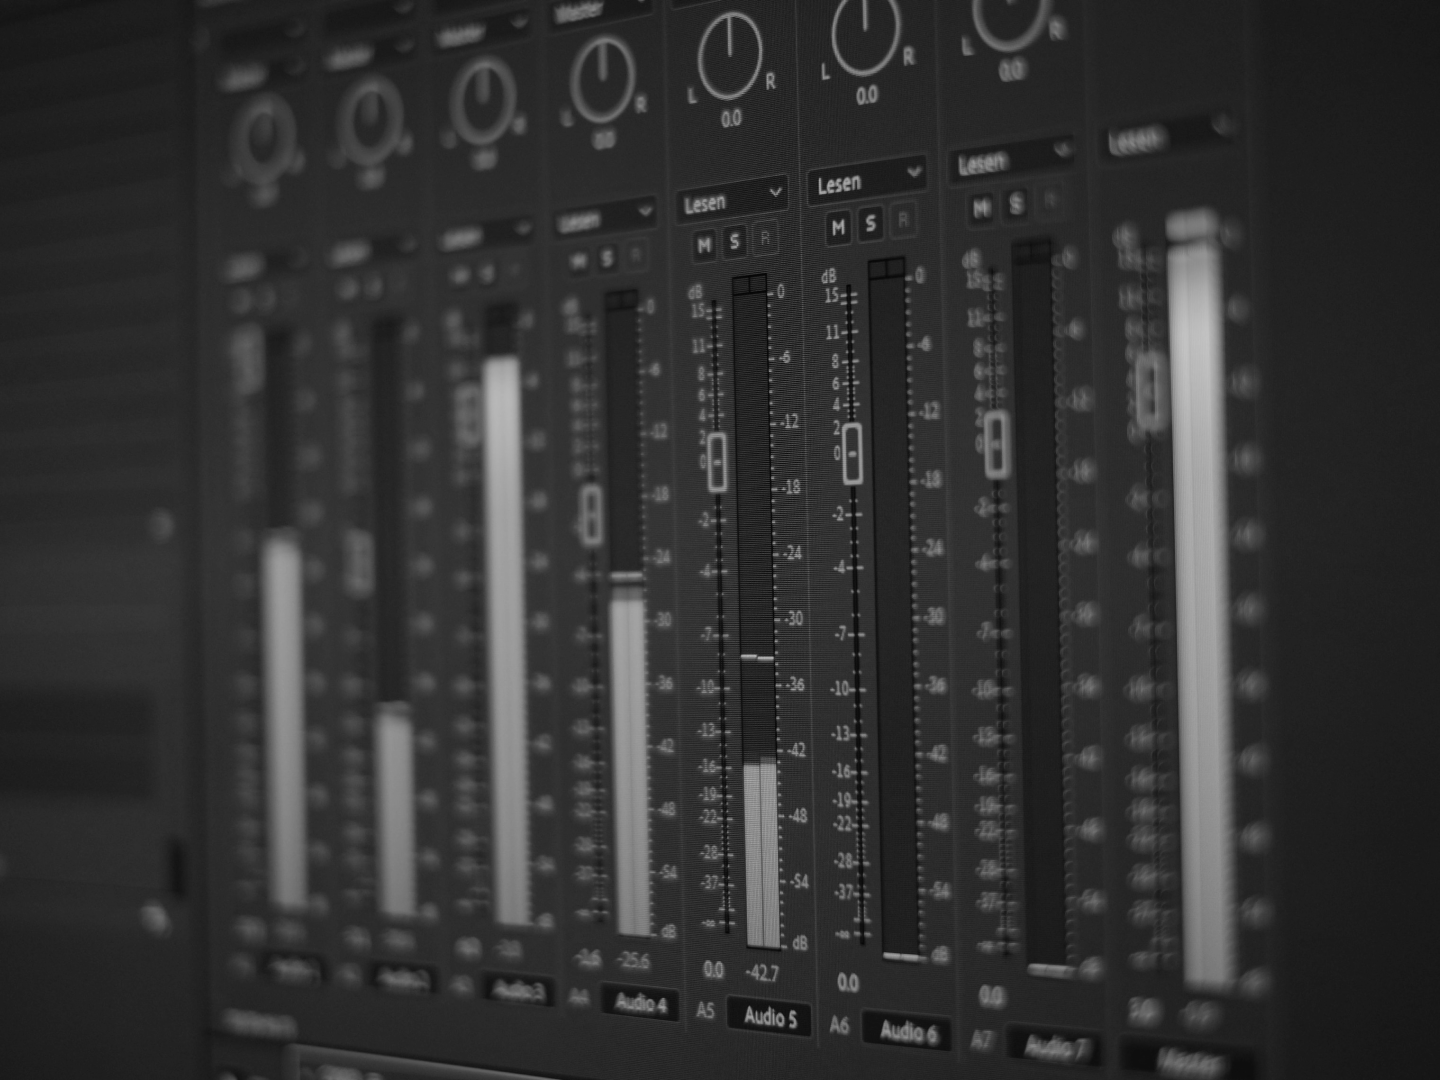
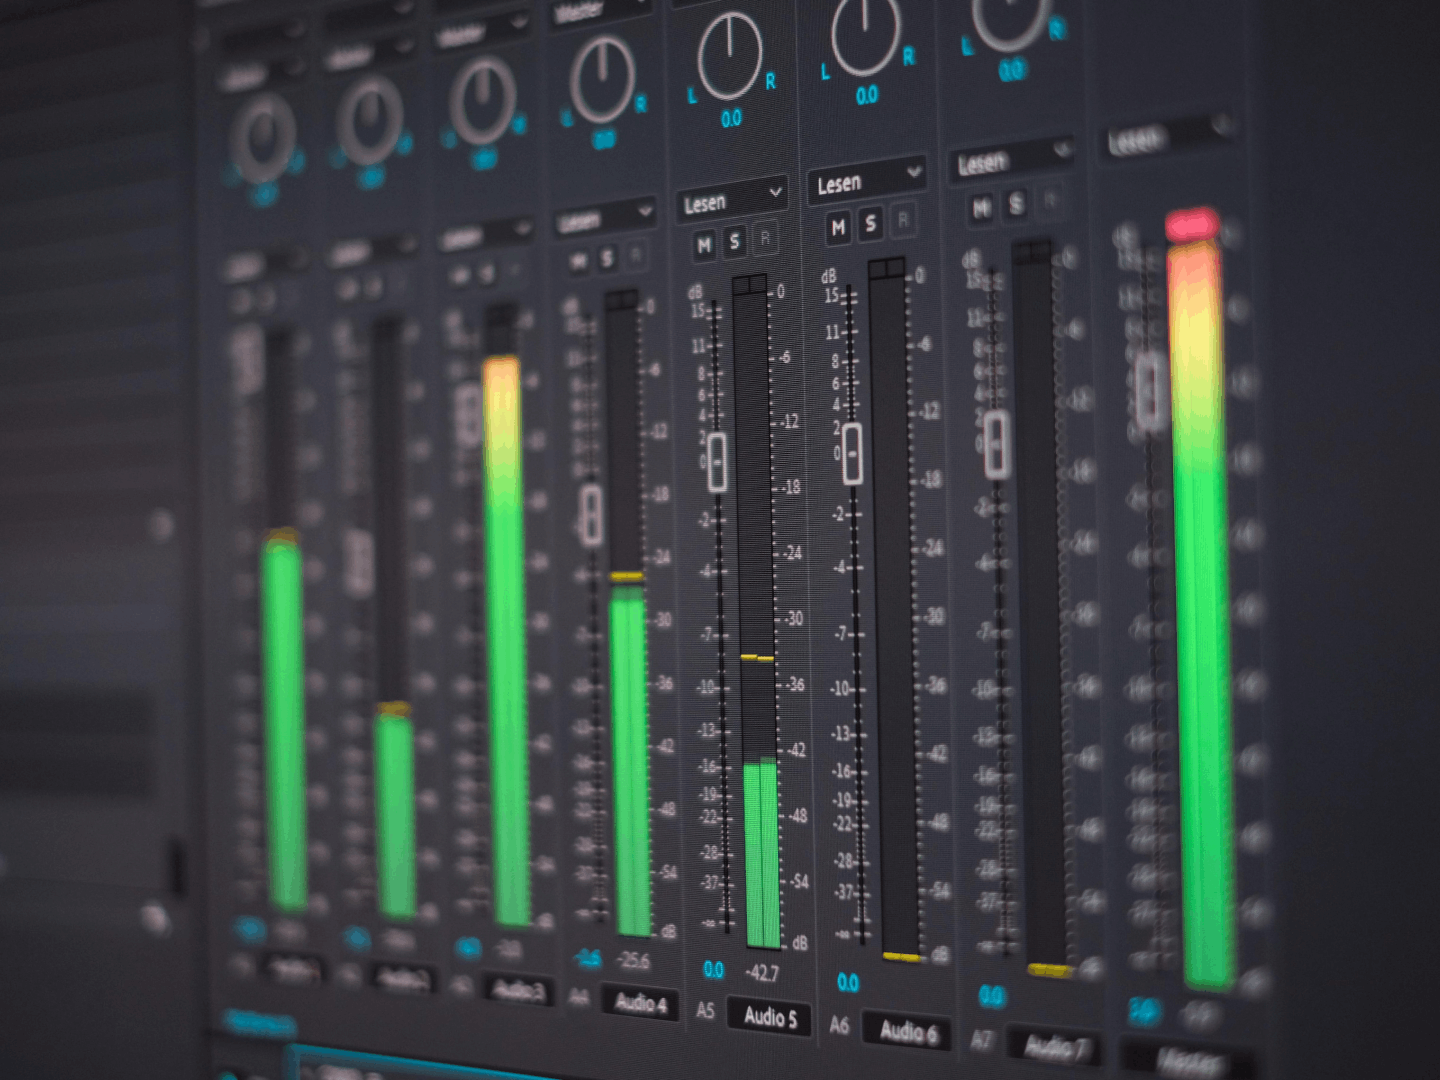
ADD: grayscale

diff --git a/assets/css/style.min.css b/assets/css/style.min.css
@@ -1,1 +1,1 @@
-*{margin:0;padding:0;-webkit-box-sizing:border-box;box-sizing:border-box}@font-face{font-family:Oswald;font-style:normal;font-weight:400;src:url(../fonts/Oswald-regular.woff2) format("woff2"),url(../fonts/Oswald-regular.woff) format("woff"),url(../fonts/Oswald-regular.ttf) format("truetype")}@font-face{font-family:Raleway;font-style:normal;font-weight:500;src:url(../fonts/Raleway-Medium.woff2) format("woff2"),url(../fonts/Raleway-Medium.woff) format("woff"),url(../fonts/Raleway-Medium.ttf) format("truetype")}@font-face{font-family:Raleway;font-style:italic;font-weight:500;src:url(../fonts/Raleway-MediumItalic.woff2) format("woff2"),url(../fonts/Raleway-MediumItalic.woff) format("woff"),url(../fonts/Raleway-MediumItalic.ttf) format("truetype")}.header{display:grid;grid-template-columns:50% 50%;max-height:100vh;height:100vh;position:relative}.header__title{position:absolute;padding-top:calc(50vh - 180px);padding-bottom:calc(50vh - 180px);padding-left:calc(50vw - 377px);padding-right:calc(50vw - 377px);height:100vh;text-align:center}.header__title h1{font-family:Oswald;font-weight:400;font-size:128px;line-height:120px;letter-spacing:.02em;text-align:center;color:#fff;text-shadow:0 4px 4px rgba(0,0,0,.25)}.header__title--bracket{position:absolute}.header__title--bracket:first-child{left:calc(50vw - 430px);top:calc(50vh - 195px)}.header__title--bracket:last-child{right:calc(50vw - 430px);top:calc(50vh - 195px)}.header__item{max-width:50vw;max-height:50vh}.header__item img{width:50vw;height:50vh;display:block;-o-object-fit:cover;object-fit:cover}
+*{margin:0;padding:0;-webkit-box-sizing:border-box;box-sizing:border-box}@font-face{font-family:Oswald;font-style:normal;font-weight:400;src:url(../fonts/Oswald-regular.woff2) format("woff2"),url(../fonts/Oswald-regular.woff) format("woff"),url(../fonts/Oswald-regular.ttf) format("truetype")}@font-face{font-family:Raleway;font-style:normal;font-weight:500;src:url(../fonts/Raleway-Medium.woff2) format("woff2"),url(../fonts/Raleway-Medium.woff) format("woff"),url(../fonts/Raleway-Medium.ttf) format("truetype")}@font-face{font-family:Raleway;font-style:italic;font-weight:500;src:url(../fonts/Raleway-MediumItalic.woff2) format("woff2"),url(../fonts/Raleway-MediumItalic.woff) format("woff"),url(../fonts/Raleway-MediumItalic.ttf) format("truetype")}.header{display:grid;grid-template-columns:50% 50%;max-height:100vh;height:100vh;position:relative}.header__title{position:absolute;top:calc(50vh - 180px);bottom:calc(50vh - 180px);left:calc(50vw - 377px);right:calc(50vw - 377px);text-align:center;z-index:1}.header__title h1{font-family:Oswald;font-weight:400;font-size:128px;line-height:120px;letter-spacing:.02em;text-align:center;color:#fff;text-shadow:0 4px 4px rgba(0,0,0,.25)}.header__title--bracket{position:absolute}.header__title--bracket:first-child{left:calc(50vw - 430px);top:calc(50vh - 195px)}.header__title--bracket:last-child{right:calc(50vw - 430px);top:calc(50vh - 195px)}.header__item{max-width:50vw;max-height:50vh;position:relative}.header__item img{width:50vw;height:50vh;display:block;-o-object-fit:cover;object-fit:cover;filter:grayscale(100%);-webkit-filter:grayscale(100%);z-index:10;-webkit-transition:.5s;-o-transition:.5s;transition:.5s}.header__item img:hover{-webkit-transition:.5s;-o-transition:.5s;transition:.5s;filter:grayscale(0);-webkit-filter:grayscale(0)}.header__item:nth-child(2)::after{content:"";width:2px;background-color:#fff;position:absolute;right:0;top:0;height:16vh;z-index:5}.header__item:nth-child(2)::before{content:"";width:20vh;background-color:#fff;position:absolute;left:0;bottom:0;height:2px;-webkit-transform:rotate(180deg);-ms-transform:rotate(180deg);transform:rotate(180deg);z-index:5}.header__item:nth-child(3)::after{content:"";width:20vh;background-color:#fff;position:absolute;right:0;bottom:0;height:2px;-webkit-transform:rotate(180deg);-ms-transform:rotate(180deg);transform:rotate(180deg);z-index:5}.header__item:nth-child(4)::after{content:"";width:2px;background-color:#fff;position:absolute;right:0;bottom:0;height:16vh;z-index:5}

diff --git a/assets/scss/components/_header.scss b/assets/scss/components/_header.scss
@@ -7,12 +7,12 @@
 
     &__title{
         position: absolute;
-        padding-top: calc(50vh - 180px);
-        padding-bottom: calc(50vh - 180px);
-        padding-left: calc(50vw - 377px);
-        padding-right: calc(50vw - 377px);
-        height: 100vh;
+        top: calc(50vh - 180px);
+        bottom: calc(50vh - 180px);
+        left: calc(50vw - 377px);
+        right: calc(50vw - 377px);
         text-align: center;
+        z-index: 1;
 
         & h1 {
             @include Oswald;
@@ -42,12 +42,69 @@
     &__item{
         max-width: 50vw;
         max-height: 50vh;
+        position: relative;
 
         & img {
             width: 50vw;
             height: 50vh;
             display: block;
             object-fit: cover;
+            filter: grayscale(100%);
+            -webkit-filter: grayscale(100%); /* Safari 6.0 - 9.0 */
+            z-index: 10;
+            transition: 0.5s;
+            
+            &:hover{
+                transition: 0.5s;
+                filter: grayscale(0%);
+                -webkit-filter: grayscale(0%); /* Safari 6.0 - 9.0 */
+            }
+        }
+
+        &:nth-child(2)::after {
+            content: '';
+            width: 2px;
+            background-color: #FFFFFF;
+            position: absolute;
+            right: 0;
+            top: 0;
+            height: 16vh;
+            z-index: 5;
+        }
+
+        &:nth-child(2)::before {
+            content: '';
+            width: 20vh;
+            background-color: #FFFFFF;
+            position: absolute;
+            left: 0;
+            bottom: 0;
+            height: 2px;
+            transform: rotate(180deg);
+            z-index: 5;
+        }
+
+        &:nth-child(3)::after {
+            content: '';
+            width: 20vh;
+            background-color: #FFFFFF;
+            position: absolute;
+            right: 0;
+            bottom: 0;
+            height: 2px;
+            transform: rotate(180deg);
+            z-index: 5;
+        }
+
+        &:nth-child(4)::after {
+            content: '';
+            width: 2px;
+            background-color: #FFFFFF;
+            position: absolute;
+            right: 0;
+            bottom: 0;
+            height: 16vh;
+            z-index: 5;
         }
     }
 }
